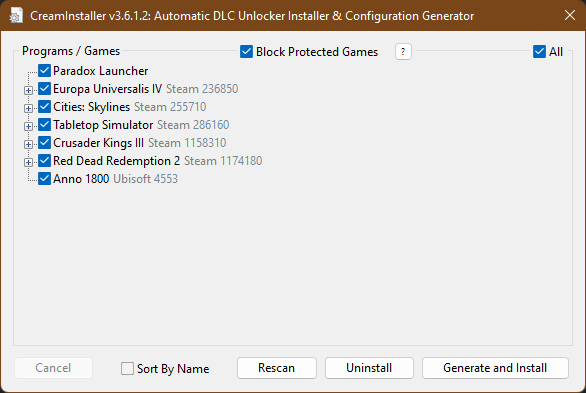
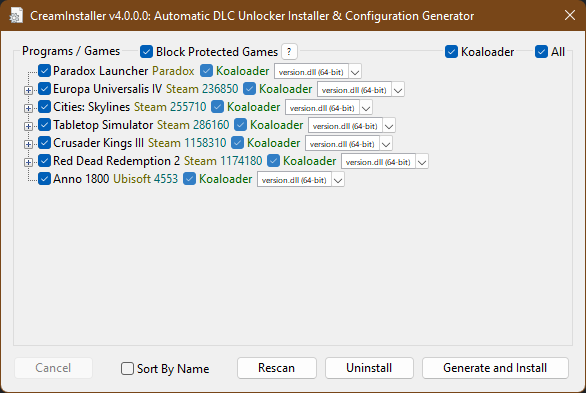
finalizations

diff --git a/README.md b/README.md
@@ -2,7 +2,7 @@
 
 ![Program Preview Image](https://raw.githubusercontent.com/pointfeev/CreamInstaller/main/preview.png)
 
-###### The program utilizes the latest versions of [SmokeAPI](https://github.com/acidicoala/SmokeAPI), [ScreamAPI](https://github.com/acidicoala/ScreamAPI), [Uplay R1 Unlocker](https://github.com/acidicoala/UplayR1Unlocker) and [Uplay R2 Unlocker](https://github.com/acidicoala/UplayR2Unlocker), all by the wonderful [acidicoala](https://github.com/acidicoala), and all downloaded from the posts above and embedded into the program itself; no further downloads necessary on your part!
+###### The program utilizes the latest versions of [Koaloader](https://github.com/acidicoala/Koaloader), [SmokeAPI](https://github.com/acidicoala/SmokeAPI), [ScreamAPI](https://github.com/acidicoala/ScreamAPI), [Uplay R1 Unlocker](https://github.com/acidicoala/UplayR1Unlocker) and [Uplay R2 Unlocker](https://github.com/acidicoala/UplayR2Unlocker), all by the wonderful [acidicoala](https://github.com/acidicoala), and all downloaded from the posts above and embedded into the program itself; no further downloads necessary on your part!
 ---
 #### Description:
 Automatically finds all installed Steam, Epic and Ubisoft games with their respective DLC-related DLL locations on the user's computer,
@@ -20,8 +20,8 @@ games and DLCs the user selects; however, through the use of **right-click conte
 #### Features:
 * Automatic download and installation of SteamCMD as necessary whenever a Steam game is chosen. *for gathering appinfo such as name, buildid, listofdlc, depots*
 * Automatic gathering and caching of information for all selected Steam and Epic games and **ALL** of their DLCs.
-* Automatic DLL installation and configuration generation for SmokeAPI, ScreamAPI, Uplay R1 Unlocker and Uplay R2 Unlocker.
-* Automatic uninstallation of DLLs and configurations for CreamAPI, SmokeAPI, ScreamAPI, Uplay R1 Unlocker and Uplay R2 Unlocker.
+* Automatic DLL installation and configuration generation for Koaloader, SmokeAPI, ScreamAPI, Uplay R1 Unlocker and Uplay R2 Unlocker.
+* Automatic uninstallation of DLLs and configurations for Koaloader, CreamAPI, SmokeAPI, ScreamAPI, Uplay R1 Unlocker and Uplay R2 Unlocker.
 * Automatic reparation of the Paradox Launcher (and manually via the right-click context menu "Repair" option). *for when the launcher updates whilst you have CreamAPI, SmokeAPI or ScreamAPI installed to it*
 
 ---
@@ -39,9 +39,10 @@ games and DLCs the user selects; however, through the use of **right-click conte
 3. Wait for the program to download and install SteamCMD (if you chose a Steam game). *very fast, depends on internet speed*
 4. Wait for the program to gather and cache the chosen games' information & DLCs. *may take a good amount of time on the first run, depends on how many games you chose and how many DLCs they have*
 5. **CAREFULLY** select which games' DLCs you wish to unlock. *Obviously none of the DLC unlockers are tested for every single game!*
-6. Click the **Generate and Install** button.
-7. Click the **OK** button to close the program.
-8. If any of the DLC unlockers cause problems with any of the games you installed them on, simply go back to step 5 and select what games you wish you **revert** changes to, and instead click the **Uninstall** button this time.
+6. Choose whether or not to install with Koaloader, and if so then also pick the proxy DLL to use. *If the default version.dll x64 doesn't work, then see [here](https://cs.rin.ru/forum/viewtopic.php?p=2552172#p2552172) to find one that does.*
+7. Click the **Generate and Install** button.
+8. Click the **OK** button to close the program.
+9. If any of the DLC unlockers cause problems with any of the games you installed them on, simply go back to step 5 and select what games you wish you **revert** changes to, and instead click the **Uninstall** button this time.
 
 ---
 ##### Bugs/Crashes/Issues:
